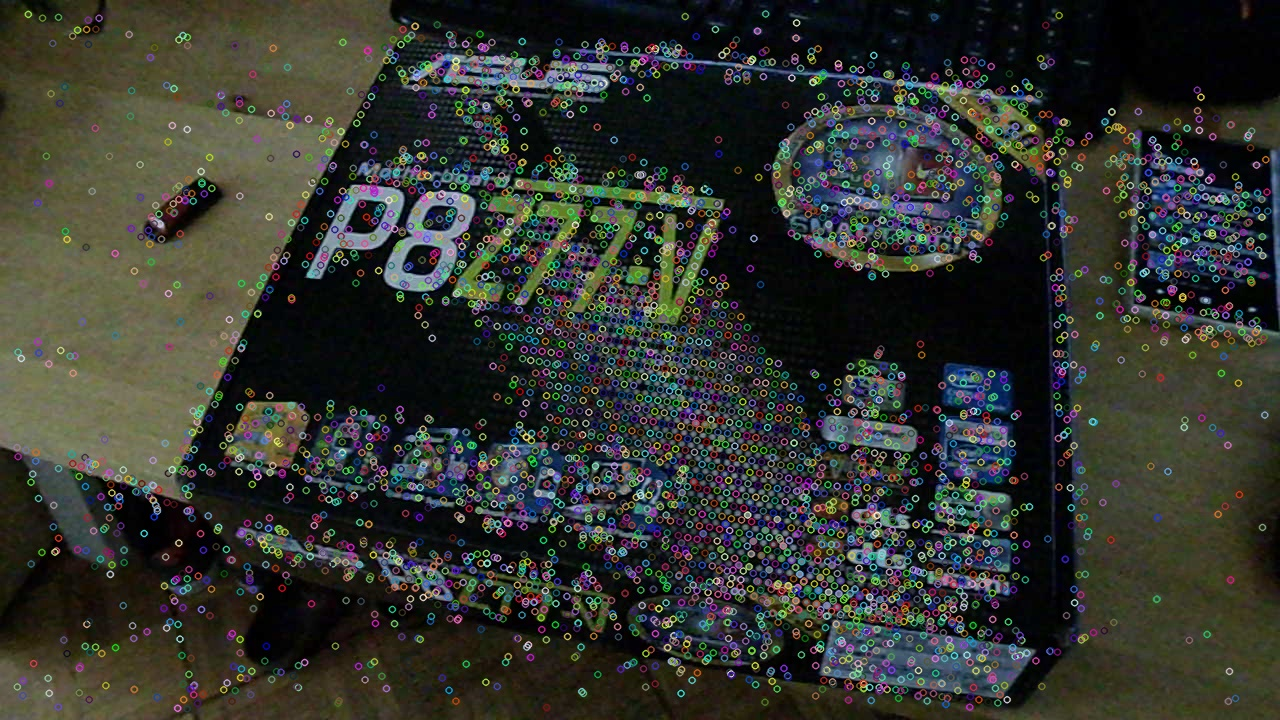
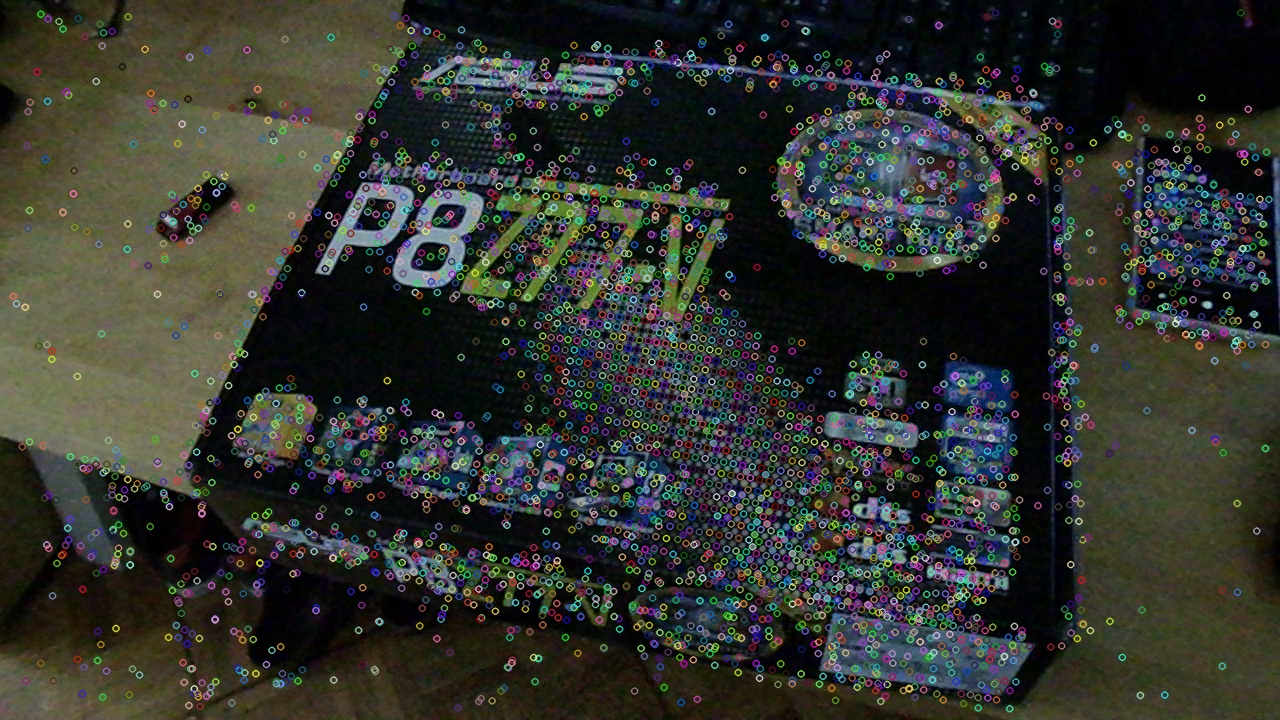
Some Object::paint tuning

diff --git a/src/IStuff/object.cpp b/src/IStuff/object.cpp
@@ -85,9 +85,9 @@ Mat Object::paint(Mat frame)
 	//for (auto label : description)
 	for( vector< Label >::iterator label = labels.begin(); label != labels.end(); label++ )
 	{
-		circle( frame, (*label).position, 5, (*label).color, 2 );
+		circle( frame, (*label).position, 5, (*label).color, 1 );
 
-		putText( frame, ( *label ).name, (*label).position, FONT_HERSHEY_PLAIN, 1, ( *label ).color, 2 );
+		putText( frame, ( *label ).name, Point2f( (*label).position.x + 10, (*label).position.y + 10 ), FONT_HERSHEY_DUPLEX, 2, ( *label ).color, 3 );
 	}
 
 	return frame;
